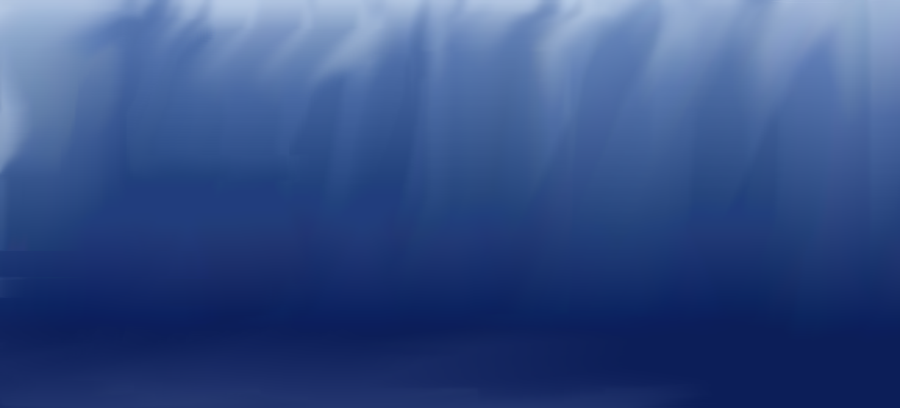
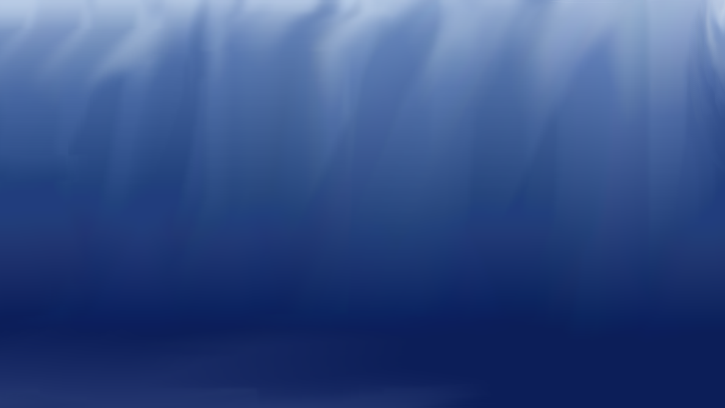
paralax working, everything functional

diff --git a/WormyFlight/core/src/GameWorld/GameWorld.java b/WormyFlight/core/src/GameWorld/GameWorld.java
@@ -11,6 +11,8 @@ public class GameWorld {
     private Diver diver;
     private Diver hiddenDiver;
     private Background background;
+    private Background caveBackground;
+    private Background shipBackground;
     private Background cave;
     private Background ship;
     private Background space;
@@ -20,8 +22,10 @@ public class GameWorld {
     public GameWorld() {
         diver = new Diver(100,100,20,20);
         background = new Background(0,0,1000,408,1);
-        cave = new Background(480,0,1000,480,1);
-        ship = new Background(960,0,1000,480,1);
+        caveBackground = new Background(480,0,1000,480,1);
+        shipBackground = new Background(960,0,1000,480,1);
+        cave = new Background(480,0,1000,480,1.2f);
+        ship = new Background(960,0,1000,480,1.2f);
         hidden = false;
     }
     public void update(float delta) {
@@ -29,21 +33,25 @@ public class GameWorld {
 
         if (status == 1) {
         	background.update(delta, diver.getVelocity());
+        	caveBackground.update(delta, diver.getVelocity());
+        	shipBackground.update(delta, diver.getVelocity());
         	cave.update(delta, diver.getVelocity());
         	ship.update(delta, diver.getVelocity());
         	if(hidden) {
-        		hiddenDiver.setPosition(new Vector2(hiddenDiver.getPosition().x-diver.getVelocity().x, hiddenDiver.getPosition().y));
+        		hiddenDiver.setPosition(new Vector2(hiddenDiver.getPosition().x-diver.getVelocity().x*1.2f, hiddenDiver.getPosition().y));
         	}
         } 
     }
     public void hide() {
     	if ( !hidden ) {
     		hiddenDiver = new Diver(diver.getSuper().x, diver.getSuper().y, 20, 20);
-    		hiddenDiver.setOpacity(0.15f);
+    		hiddenDiver.setOpacity(0.2f);
     		hidden = true;
     		diver.setPosition(new Vector2(200,200));
     		diver.setSuper(new Vector2(200,200));
     		background.setPosition(new Vector2(0,0));
+    		caveBackground.setPosition(new Vector2(480,0));
+    		shipBackground.setPosition(new Vector2(960,0));
     		cave.setPosition(new Vector2(480,0));
     		ship.setPosition(new Vector2(960,0));
     		System.out.println("Here2");
@@ -61,8 +69,14 @@ public class GameWorld {
     public Diver getHiddenDiver() {
     	return hiddenDiver;
     }
-    public Background getBackgroundround() {
+    public Background getBackground() {
     	return background;
+    }
+    public Background getCaveBackground() {
+    	return caveBackground;
+    }
+    public Background getShipBackground() {
+    	return shipBackground;
     }
     public Background getCave() {
     	return cave;

diff --git a/WormyFlight/core/src/Helpers/AssetLoader.java b/WormyFlight/core/src/Helpers/AssetLoader.java
@@ -2,6 +2,7 @@ package Helpers;
 
 import com.badlogic.gdx.Gdx;
 import com.badlogic.gdx.graphics.Texture;
+import com.badlogic.gdx.graphics.g2d.BitmapFont;
 import com.badlogic.gdx.graphics.g2d.Sprite;
 
 
@@ -30,12 +31,14 @@ public class AssetLoader {
     public static Texture Ship;
     public static Sprite ShipSprite;
     
+    public static BitmapFont font;
+    
     public static void load() {
         Diver = new Texture(Gdx.files.internal("android/assets/data/Diver.png"));
         DiverSprite = new Sprite(Diver);
         DiverSprite.flip(false,true);
 
-        BG = new Texture(Gdx.files.internal("android/assets/data/fuckthis.png"));
+        BG = new Texture(Gdx.files.internal("android/assets/data/background.png"));
         BGSprite = new Sprite(BG);
         BGSprite.flip(false, true);
         BGSpriteFlipped = new Sprite(BG);
@@ -45,7 +48,7 @@ public class AssetLoader {
         CaveSprite = new Sprite(Cave);
         CaveSprite.flip(false, true);
         
-        Opaque1 = new Texture(Gdx.files.internal("android/assets/data/OpaqueA.png"));
+        Opaque1 = new Texture(Gdx.files.internal("android/assets/data/Opaque.png"));
         OpaqueSprite1 = new Sprite(Opaque1);
         Gradiant = new Texture(Gdx.files.internal("android/assets/data/gradiant.png"));
         gradiantSprite = new Sprite(Gradiant);
@@ -58,6 +61,8 @@ public class AssetLoader {
         Ship = new Texture(Gdx.files.internal("android/assets/data/sunkenship.png"));
         ShipSprite = new Sprite(Ship);
         ShipSprite.flip(false,true);
+        
+        font = new BitmapFont(Gdx.files.internal("android/assets/data/font.fnt"));
         
     }
     

diff --git a/WormyFlight/core/src/GameWorld/GameRenderer.java b/WormyFlight/core/src/GameWorld/GameRenderer.java
@@ -43,10 +43,10 @@ public class GameRenderer {
         
         spriteBatch.enableBlending();
 
-        spriteBatch.draw(AssetLoader.BGSprite, myWorld.getBackgroundround().getPosition().x, myWorld.getBackgroundround().getPosition().y, xwidth, yheight);
-        spriteBatch.draw(AssetLoader.BGSpriteFlipped, myWorld.getCave().getPosition().x, myWorld.getCave().getPosition().y, xwidth, yheight);
+        spriteBatch.draw(AssetLoader.BGSprite, myWorld.getBackground().getPosition().x, myWorld.getBackground().getPosition().y, xwidth, yheight);
+        spriteBatch.draw(AssetLoader.BGSpriteFlipped, myWorld.getCaveBackground().getPosition().x, myWorld.getCaveBackground().getPosition().y, xwidth, yheight);
+        spriteBatch.draw(AssetLoader.BGSprite, myWorld.getShipBackground().getPosition().x, myWorld.getShipBackground().getPosition().y, xwidth, yheight);
         spriteBatch.draw(AssetLoader.CaveSprite, myWorld.getCave().getPosition().x, myWorld.getCave().getPosition().y, xwidth, yheight);
-        spriteBatch.draw(AssetLoader.BGSprite, myWorld.getShip().getPosition().x, myWorld.getShip().getPosition().y, xwidth, yheight);
         
         if (myWorld.hidden()) {
         	spriteBatch.setColor(c.r, c.g, c.b, myWorld.getHiddenDiver().getOpacity());

diff --git a/WormyFlight/core/src/GameObjects/Fish.java b/WormyFlight/core/src/GameObjects/Fish.java
@@ -11,14 +11,16 @@ public class Fish {
 	
 	public int type;
 	
-	public Fish(Boolean side, float y, int width, int height, int type) {
+	public Fish(Boolean side, float y, float x, int width, int height, float layer) {
 		
 	}
 	
-	public void update(float delta) {
+	public void update(float delta, Vector2 velocity) {
 		
 	}
-	
+	public void setPosition(Vector2 pos) {
+		position = pos;
+	}
 	public Vector2 getPosition() {
 		return position;
 	}

diff --git a/WormyFlight/core/src/GameObjects/Background.java b/WormyFlight/core/src/GameObjects/Background.java
@@ -19,7 +19,7 @@ public class Background {
 	}
 	
 	public void update (float delta, Vector2 velocity){
-		position.x -= velocity.x;
+		position.x -= velocity.x*layer;
 	}
 	public void setPosition(Vector2 pos) {
 		position = pos;
